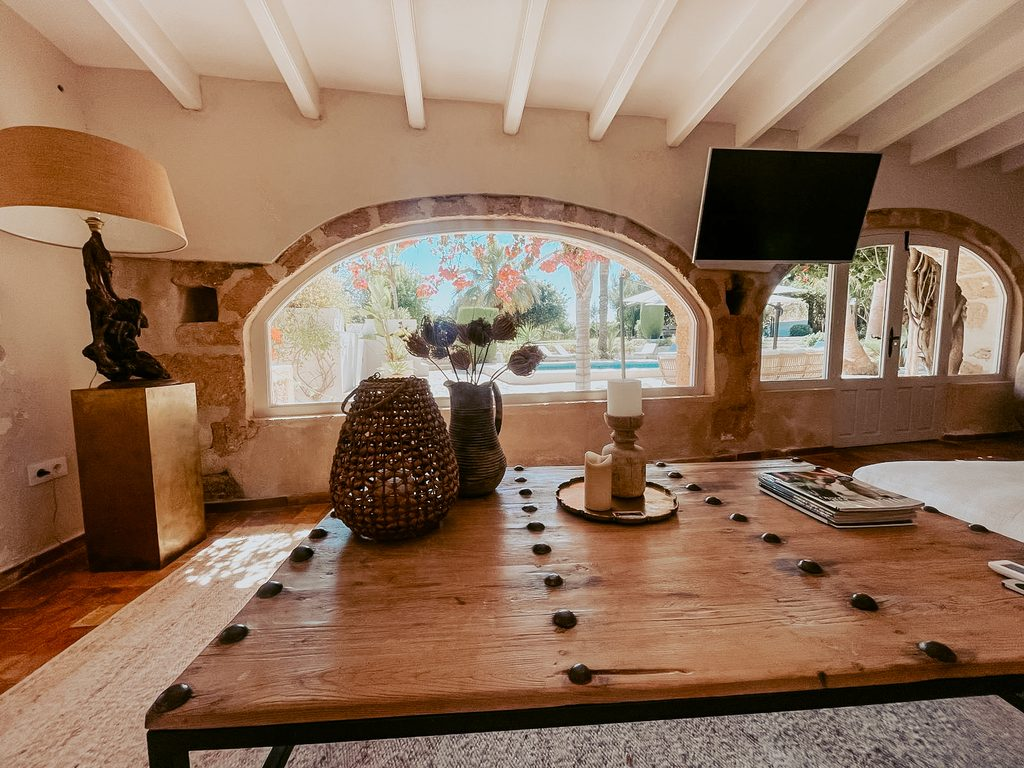
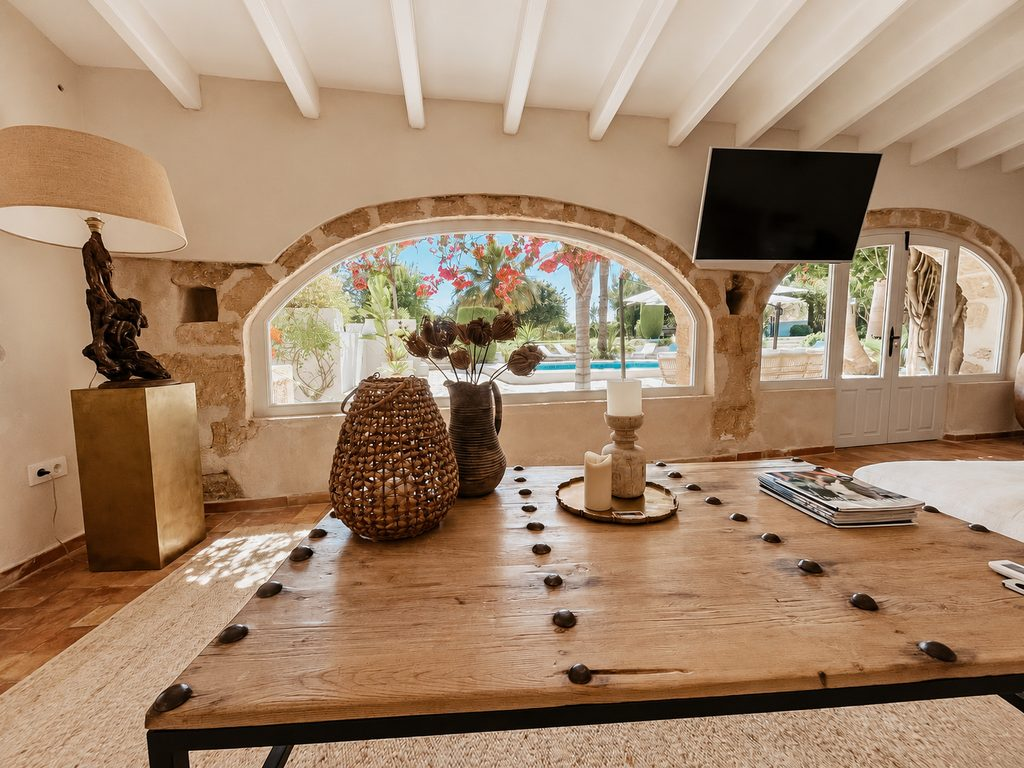
Zeven foto's vervangen door kleurgecorrigeerde versies, keukenfoto erbij
Welke bestanden nieuw waren kwam uit git: de upload-commit op main
voegde precies acht PNG's toe. Welke daarvan dezelfde opname zijn als
iets bestaands kwam uit een structuurvergelijking op grijswaarden,
zodat de kleurbewerking zelf geen rol speelt. Elke upload is daarna
naast zijn match gelegd en met het oog gecontroleerd.

Vervangen (zelfde plek, zelfde alt-tekst, zelfde slug)
- photo-2025-05-22-09-40-54-7      binnenplaats
- photo-2025-05-22-09-41-58-14     zithoek met boograam
- hihiphoto-2025-05-22-09-41-58-9  gevel met bougainville
- xxphoto-2025-05-22-09-41-26-15   woonkamer
- binnen-eettafel                  eettafel binnen
- slaapkamer-guesthouse            gastenslaapkamer
- photo-2025-05-22-09-41-26-18     dressoir
De oude varianten zijn verwijderd en opnieuw gegenereerd uit de nieuwe
bron; srcset en src in index.html wijzen naar de nieuwe reeks.

Nieuw
- keuken-werkblad: de andere kant van de keuken, met marmeren blad en
  boogvenster. Als vierde tegel in de Binnen-portretrij, die daarmee
  van drie span-4 naar vier span-3 gaat, met passende sizes.

Vijf van de zeven vervangen foto's hadden een variant van 1600px; de
nieuwe bronnen zijn 1448px breed. Dat verschil van een tiende is niet
zichtbaar en de kleur weegt zwaarder.

Geverifieerd op 320-1920px: 28 tegels, geen gaten of rafelige rijen,
geen 404s, geen kapotte beelden, geen JS-fouten, alle tekst haalt
WCAG AA en alle raakvlakken zijn minimaal 44px.
[…]

diff --git a/index.html b/index.html
@@ -1542,8 +1542,8 @@
     <div class="gallery" aria-label="Galerij">
       <!-- Aankomst -->
       <div class="g span-12 reveal-l"><img srcset="images/photo-2025-05-22-09-41-58-16-640.jpg 640w, images/photo-2025-05-22-09-41-58-16-1024.jpg 1024w, images/photo-2025-05-22-09-41-58-16-1280.jpg 1280w, images/photo-2025-05-22-09-41-58-16-1600.jpg 1600w" sizes="(max-width: 560px) 100vw, (max-width: 1180px) calc(100vw - 56px), 1120px" src="images/photo-2025-05-22-09-41-58-16-1600.jpg" alt="Terras bij het zwembad onder de palmen" loading="lazy" decoding="async"></div>
-      <div class="g span-6 reveal-l"><img srcset="images/hihiphoto-2025-05-22-09-41-58-9-640.jpg 640w, images/hihiphoto-2025-05-22-09-41-58-9-1024.jpg 1024w, images/hihiphoto-2025-05-22-09-41-58-9-1280.jpg 1280w, images/hihiphoto-2025-05-22-09-41-58-9-1600.jpg 1600w" sizes="(max-width: 560px) 100vw, (max-width: 1180px) calc(100vw - 56px), 1120px" src="images/hihiphoto-2025-05-22-09-41-58-9-1600.jpg" alt="Voorgevel met bloeiende bougainville boven de bogen" loading="lazy" decoding="async"></div>
-      <div class="g span-6 reveal-l"><img srcset="images/photo-2025-05-22-09-40-54-7-640.jpg 640w, images/photo-2025-05-22-09-40-54-7-1024.jpg 1024w, images/photo-2025-05-22-09-40-54-7-1280.jpg 1280w, images/photo-2025-05-22-09-40-54-7-1600.jpg 1600w" sizes="(max-width: 560px) 100vw, (max-width: 900px) calc(50vw - 36px), (max-width: 1180px) calc(50vw - 36px), 552px" src="images/photo-2025-05-22-09-40-54-7-1600.jpg" alt="Overdekte binnenplaats met terracotta tegels" loading="lazy" decoding="async"></div>
+      <div class="g span-6 reveal-l"><img srcset="images/hihiphoto-2025-05-22-09-41-58-9-640.jpg 640w, images/hihiphoto-2025-05-22-09-41-58-9-1024.jpg 1024w, images/hihiphoto-2025-05-22-09-41-58-9-1280.jpg 1280w, images/hihiphoto-2025-05-22-09-41-58-9-1448.jpg 1448w" sizes="(max-width: 560px) 100vw, (max-width: 1180px) calc(100vw - 56px), 1120px" src="images/hihiphoto-2025-05-22-09-41-58-9-1448.jpg" alt="Voorgevel met bloeiende bougainville boven de bogen" loading="lazy" decoding="async"></div>
+      <div class="g span-6 reveal-l"><img srcset="images/photo-2025-05-22-09-40-54-7-640.jpg 640w, images/photo-2025-05-22-09-40-54-7-1024.jpg 1024w, images/photo-2025-05-22-09-40-54-7-1280.jpg 1280w, images/photo-2025-05-22-09-40-54-7-1448.jpg 1448w" sizes="(max-width: 560px) 100vw, (max-width: 900px) calc(50vw - 36px), (max-width: 1180px) calc(50vw - 36px), 552px" src="images/photo-2025-05-22-09-40-54-7-1448.jpg" alt="Overdekte binnenplaats met terracotta tegels" loading="lazy" decoding="async"></div>
       <div class="g span-6 is-portrait reveal-l"><img srcset="images/photo-2025-05-22-09-40-54-14-640.jpg 640w, images/photo-2025-05-22-09-40-54-14-1024.jpg 1024w, images/photo-2025-05-22-09-40-54-14-1200.jpg 1200w" sizes="(max-width: 560px) 100vw, (max-width: 900px) calc(50vw - 36px), (max-width: 1180px) calc(50vw - 36px), 552px" src="images/photo-2025-05-22-09-40-54-14-1200.jpg" alt="Balkon met smeedijzeren tafeltje en bougainville" loading="lazy" decoding="async"></div>
       <div class="g span-6 is-portrait reveal-l"><img srcset="images/muurtje-met-pot-640.jpg 640w, images/muurtje-met-pot-1024.jpg 1024w, images/muurtje-met-pot-1086.jpg 1086w" sizes="(max-width: 560px) 100vw, (max-width: 900px) calc(50vw - 36px), (max-width: 1180px) calc(50vw - 36px), 552px" src="images/muurtje-met-pot-1086.jpg" alt="Cactus in terracotta pot tegen de zandstenen tuinmuur" loading="lazy" decoding="async"></div>
 
@@ -1563,13 +1563,14 @@
 
       <!-- Binnen -->
       <div class="g span-4 reveal-l"><img srcset="images/bank-binnen-hero-640.jpg 640w, images/bank-binnen-hero-1024.jpg 1024w, images/bank-binnen-hero-1280.jpg 1280w, images/bank-binnen-hero-1448.jpg 1448w" sizes="(max-width: 560px) 100vw, (max-width: 900px) calc(33vw - 32px), (max-width: 1180px) calc(33vw - 32px), 363px" src="images/bank-binnen-hero-1448.jpg" alt="Woonkamer met hoekbank en zicht op het zwembad" loading="lazy" decoding="async"></div>
-      <div class="g span-4 reveal-l"><img srcset="images/xxphoto-2025-05-22-09-41-26-15-640.jpg 640w, images/xxphoto-2025-05-22-09-41-26-15-1024.jpg 1024w, images/xxphoto-2025-05-22-09-41-26-15-1280.jpg 1280w, images/xxphoto-2025-05-22-09-41-26-15-1600.jpg 1600w" sizes="(max-width: 560px) 100vw, (max-width: 900px) calc(33vw - 32px), (max-width: 1180px) calc(33vw - 32px), 363px" src="images/xxphoto-2025-05-22-09-41-26-15-1600.jpg" alt="Woonkamer met terracotta vloer en openslaande deuren" loading="lazy" decoding="async"></div>
-      <div class="g span-4 reveal-l"><img srcset="images/photo-2025-05-22-09-41-26-18-640.jpg 640w, images/photo-2025-05-22-09-41-26-18-1024.jpg 1024w, images/photo-2025-05-22-09-41-26-18-1280.jpg 1280w, images/photo-2025-05-22-09-41-26-18-1600.jpg 1600w" sizes="(max-width: 560px) 100vw, (max-width: 900px) calc(33vw - 32px), (max-width: 1180px) calc(33vw - 32px), 363px" src="images/photo-2025-05-22-09-41-26-18-1600.jpg" alt="Bewerkt houten dressoir tegen een witte wand" loading="lazy" decoding="async"></div>
-      <div class="g span-6 reveal-l"><img srcset="images/photo-2025-05-22-09-41-58-14-640.jpg 640w, images/photo-2025-05-22-09-41-58-14-1024.jpg 1024w, images/photo-2025-05-22-09-41-58-14-1280.jpg 1280w, images/photo-2025-05-22-09-41-58-14-1600.jpg 1600w" sizes="(max-width: 560px) 100vw, (max-width: 900px) calc(50vw - 36px), (max-width: 1180px) calc(50vw - 36px), 552px" src="images/photo-2025-05-22-09-41-58-14-1600.jpg" alt="Zithoek met massief houten salontafel en boogvenster op het zwembad" loading="lazy" decoding="async"></div>
+      <div class="g span-4 reveal-l"><img srcset="images/xxphoto-2025-05-22-09-41-26-15-640.jpg 640w, images/xxphoto-2025-05-22-09-41-26-15-1024.jpg 1024w, images/xxphoto-2025-05-22-09-41-26-15-1280.jpg 1280w, images/xxphoto-2025-05-22-09-41-26-15-1448.jpg 1448w" sizes="(max-width: 560px) 100vw, (max-width: 900px) calc(33vw - 32px), (max-width: 1180px) calc(33vw - 32px), 363px" src="images/xxphoto-2025-05-22-09-41-26-15-1448.jpg" alt="Woonkamer met terracotta vloer en openslaande deuren" loading="lazy" decoding="async"></div>
+      <div class="g span-4 reveal-l"><img srcset="images/photo-2025-05-22-09-41-26-18-640.jpg 640w, images/photo-2025-05-22-09-41-26-18-1024.jpg 1024w, images/photo-2025-05-22-09-41-26-18-1280.jpg 1280w, images/photo-2025-05-22-09-41-26-18-1448.jpg 1448w" sizes="(max-width: 560px) 100vw, (max-width: 900px) calc(33vw - 32px), (max-width: 1180px) calc(33vw - 32px), 363px" src="images/photo-2025-05-22-09-41-26-18-1448.jpg" alt="Bewerkt houten dressoir tegen een witte wand" loading="lazy" decoding="async"></div>
+      <div class="g span-6 reveal-l"><img srcset="images/photo-2025-05-22-09-41-58-14-640.jpg 640w, images/photo-2025-05-22-09-41-58-14-1024.jpg 1024w, images/photo-2025-05-22-09-41-58-14-1280.jpg 1280w, images/photo-2025-05-22-09-41-58-14-1448.jpg 1448w" sizes="(max-width: 560px) 100vw, (max-width: 900px) calc(50vw - 36px), (max-width: 1180px) calc(50vw - 36px), 552px" src="images/photo-2025-05-22-09-41-58-14-1448.jpg" alt="Zithoek met massief houten salontafel en boogvenster op het zwembad" loading="lazy" decoding="async"></div>
       <div class="g span-6 reveal-l"><img srcset="images/slaapkamer-guesthouse-640.jpg 640w, images/slaapkamer-guesthouse-1024.jpg 1024w, images/slaapkamer-guesthouse-1280.jpg 1280w, images/slaapkamer-guesthouse-1448.jpg 1448w" sizes="(max-width: 560px) 100vw, (max-width: 900px) calc(50vw - 36px), (max-width: 1180px) calc(50vw - 36px), 552px" src="images/slaapkamer-guesthouse-1448.jpg" alt="Slaapkamer in het gastenverblijf" loading="lazy" decoding="async"></div>
-      <div class="g span-4 is-portrait reveal-l"><img srcset="images/binnen-eettafel-640.jpg 640w, images/binnen-eettafel-1024.jpg 1024w, images/binnen-eettafel-1086.jpg 1086w" sizes="(max-width: 560px) 100vw, (max-width: 900px) calc(50vw - 36px), (max-width: 1180px) calc(50vw - 36px), 552px" src="images/binnen-eettafel-1086.jpg" alt="Eettafel binnen onder grote rieten lampen" loading="lazy" decoding="async"></div>
-      <div class="g span-4 is-portrait reveal-l"><img srcset="images/open-haard-binnen-640.jpg 640w, images/open-haard-binnen-1024.jpg 1024w, images/open-haard-binnen-1086.jpg 1086w" sizes="(max-width: 560px) 100vw, (max-width: 900px) calc(33vw - 32px), (max-width: 1180px) calc(33vw - 32px), 363px" src="images/open-haard-binnen-1086.jpg" alt="Open haard met amfora-vazen" loading="lazy" decoding="async"></div>
-      <div class="g span-4 is-portrait reveal-l"><img srcset="images/3-photo-2026-02-10-11-23-55-640.jpg 640w, images/3-photo-2026-02-10-11-23-55-1024.jpg 1024w" sizes="(max-width: 560px) 100vw, (max-width: 900px) calc(33vw - 32px), (max-width: 1180px) calc(33vw - 32px), 363px" src="images/3-photo-2026-02-10-11-23-55-1024.jpg" alt="Keuken met houten fronten, betonnen blad en oude balk" loading="lazy" decoding="async"></div>
+      <div class="g span-3 is-portrait reveal-l"><img srcset="images/binnen-eettafel-640.jpg 640w, images/binnen-eettafel-1024.jpg 1024w, images/binnen-eettafel-1086.jpg 1086w" sizes="(max-width: 560px) 100vw, (max-width: 900px) calc(50vw - 36px), (max-width: 1180px) calc(25vw - 26px), 268px" src="images/binnen-eettafel-1086.jpg" alt="Eettafel binnen onder grote rieten lampen" loading="lazy" decoding="async"></div>
+      <div class="g span-3 is-portrait reveal-l"><img srcset="images/open-haard-binnen-640.jpg 640w, images/open-haard-binnen-1024.jpg 1024w, images/open-haard-binnen-1086.jpg 1086w" sizes="(max-width: 560px) 100vw, (max-width: 900px) calc(50vw - 36px), (max-width: 1180px) calc(25vw - 26px), 268px" src="images/open-haard-binnen-1086.jpg" alt="Open haard met amfora-vazen" loading="lazy" decoding="async"></div>
+      <div class="g span-3 is-portrait reveal-l"><img srcset="images/3-photo-2026-02-10-11-23-55-640.jpg 640w, images/3-photo-2026-02-10-11-23-55-1024.jpg 1024w" sizes="(max-width: 560px) 100vw, (max-width: 900px) calc(50vw - 36px), (max-width: 1180px) calc(25vw - 26px), 268px" src="images/3-photo-2026-02-10-11-23-55-1024.jpg" alt="Keuken met houten fronten, betonnen blad en oude balk" loading="lazy" decoding="async"></div>
+      <div class="g span-3 is-portrait reveal-l"><img srcset="images/keuken-werkblad-640.jpg 640w, images/keuken-werkblad-1024.jpg 1024w, images/keuken-werkblad-1086.jpg 1086w" sizes="(max-width: 560px) 100vw, (max-width: 900px) calc(50vw - 36px), (max-width: 1180px) calc(25vw - 26px), 268px" src="images/keuken-werkblad-1086.jpg" alt="Keuken met marmeren werkblad en boogvenster naar de tuin" loading="lazy" decoding="async"></div>
 
       <!-- Slapen -->
       <div class="g span-4 is-portrait reveal-l"><img srcset="images/2-photo-2026-03-05-09-45-56-640.jpg 640w, images/2-photo-2026-03-05-09-45-56-1024.jpg 1024w, images/2-photo-2026-03-05-09-45-56-1200.jpg 1200w" sizes="(max-width: 560px) 100vw, (max-width: 900px) calc(33vw - 32px), (max-width: 1180px) calc(33vw - 32px), 363px" src="images/2-photo-2026-03-05-09-45-56-1200.jpg" alt="Slaapkamer met kingsize bed en rieten wandobject" loading="lazy" decoding="async"></div>
